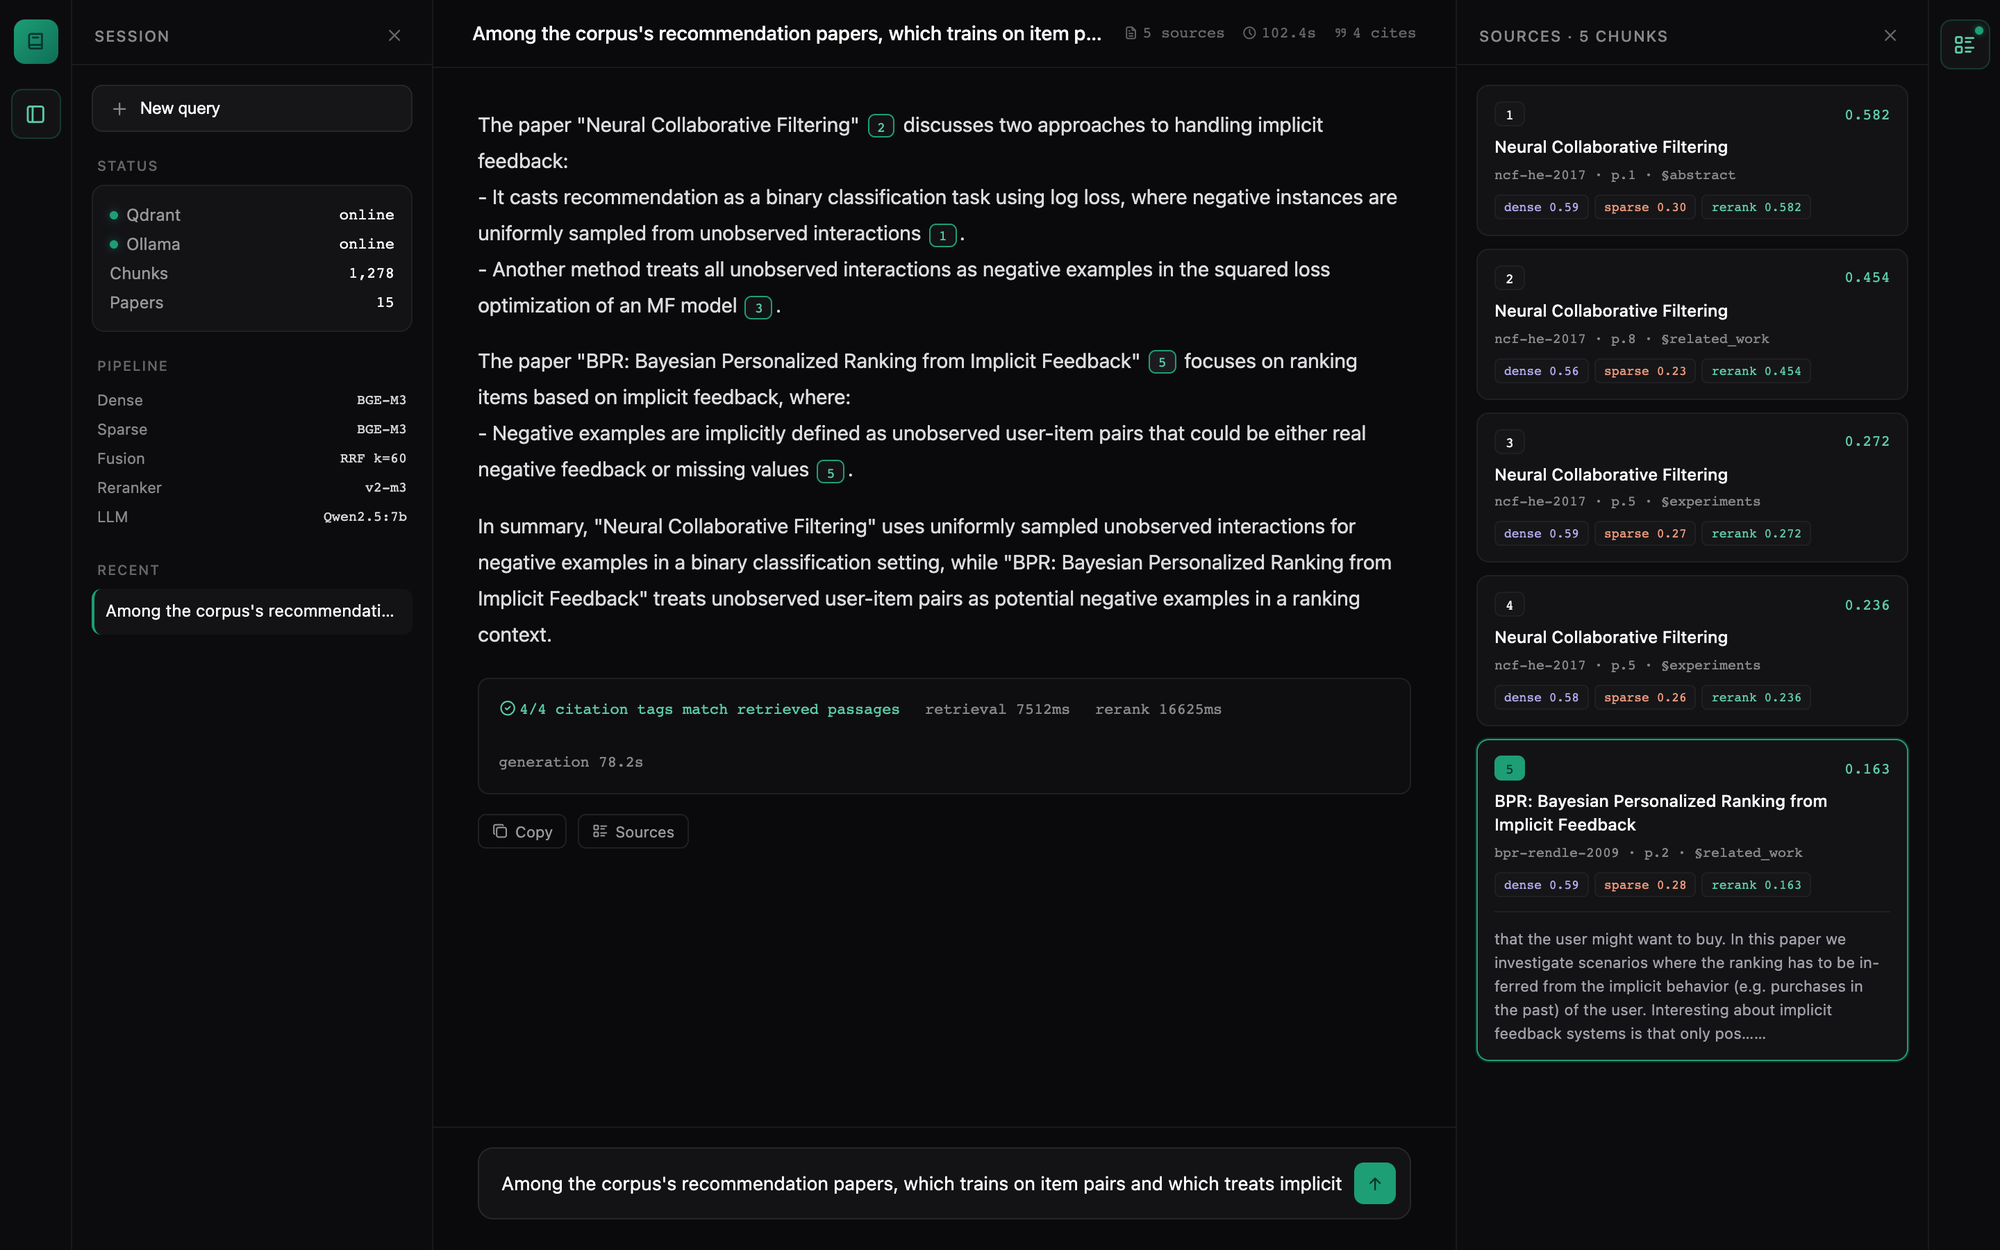
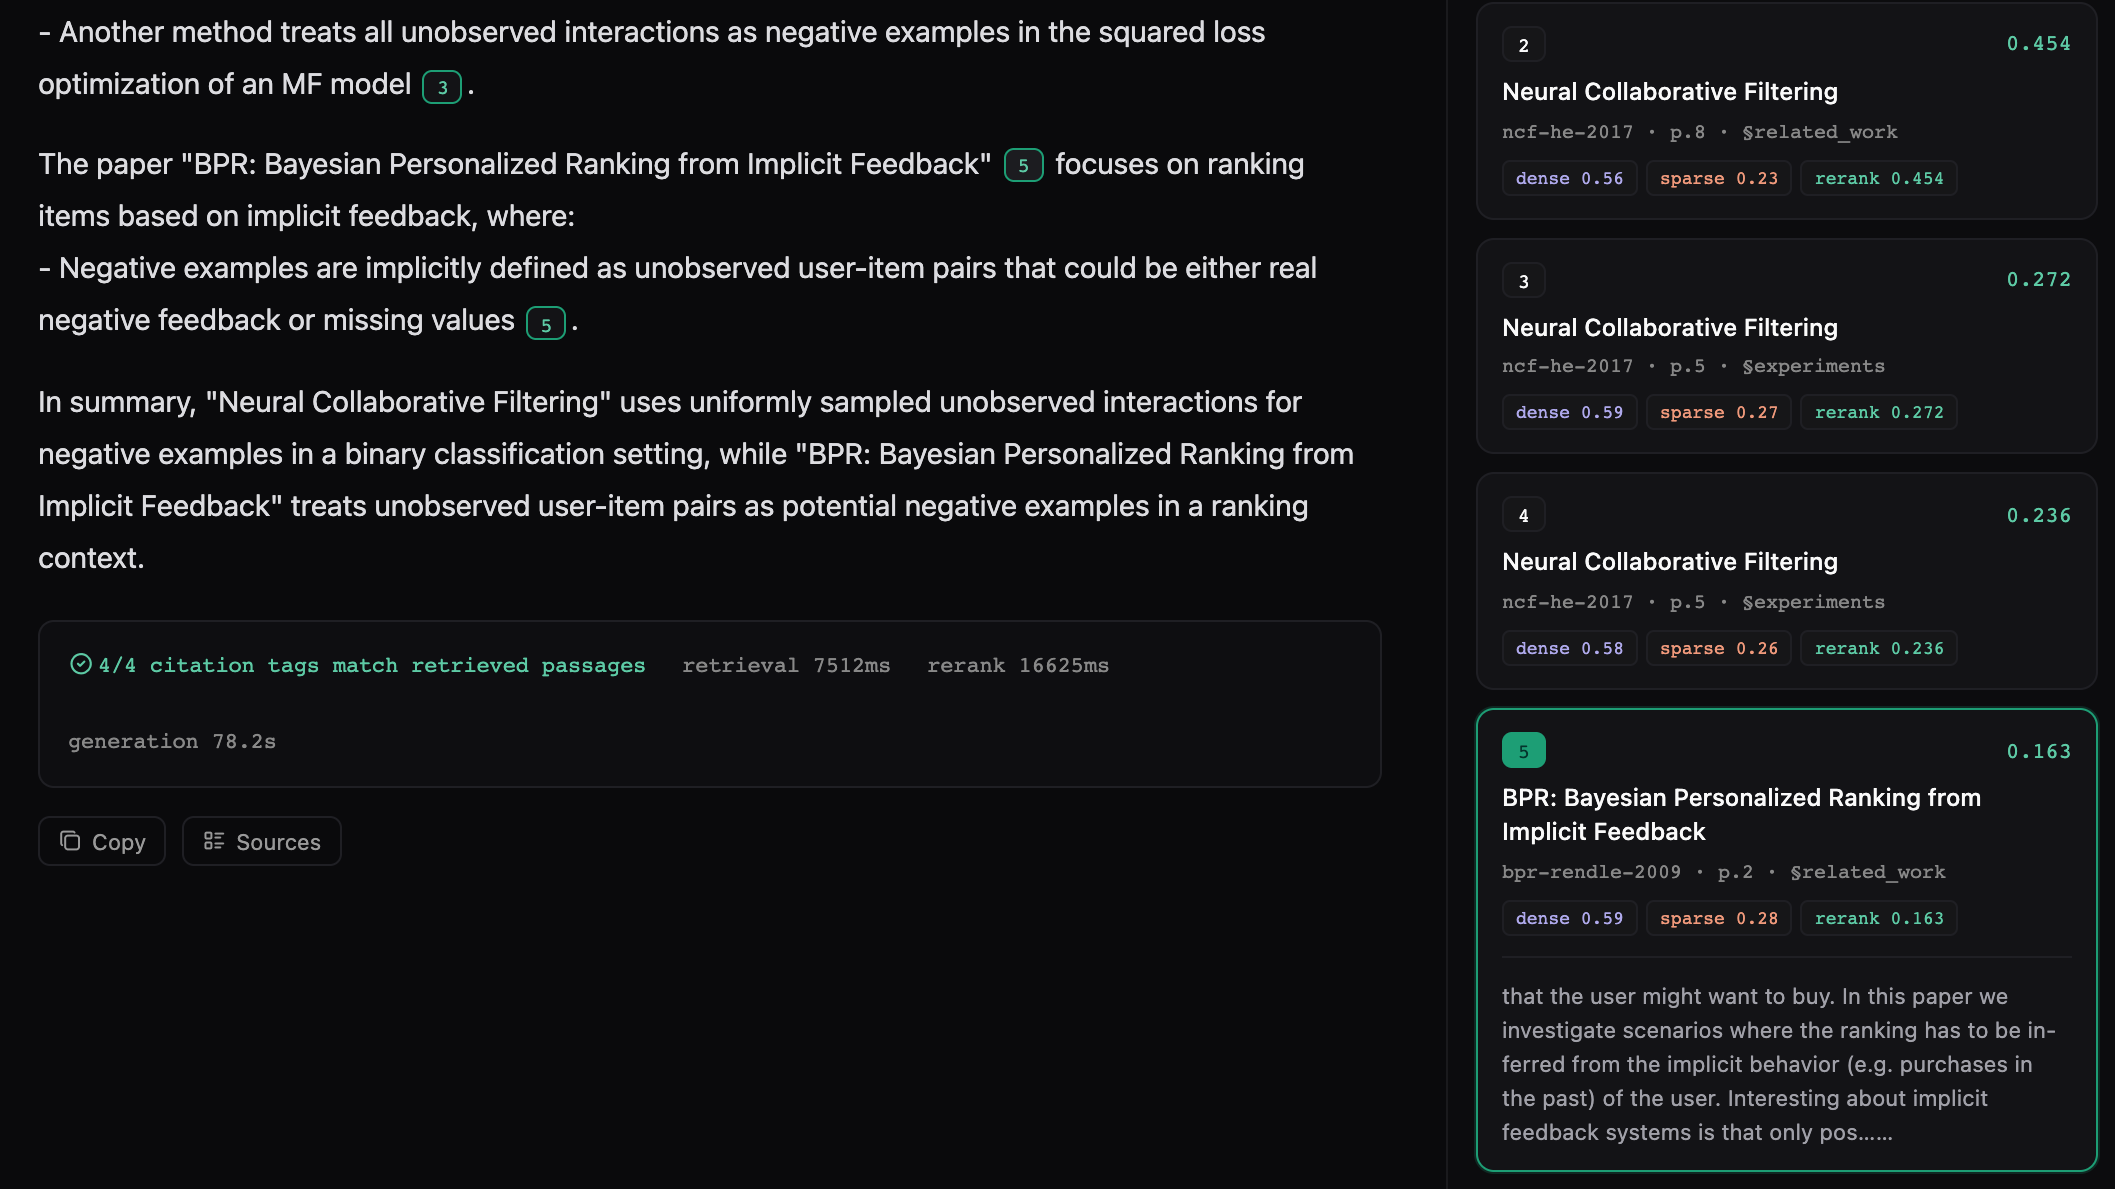
README: compact architecture diagram; crop the citation-pill screenshot
- Add a titles-only pipeline diagram under "How it works" (PDFs → BGE-M3
  → Qdrant; question → hybrid search → reranker → Qwen2.5:7b → citation
  check → released/withheld), with light and dark SVGs selected via
  <picture>. Shown at 506px so titles stay ~12px at a 390px viewport.
- Crop the third demo screenshot from the real frame (no resizing) to the
  BPR pills and the selected source card 5; caption notes it is a crop.

diff --git a/README.md b/README.md
@@ -28,13 +28,18 @@ Captured from the running web UI on the current code and the 1,278-chunk index, 
 
 ![Answer citing two papers, with both papers in the sources panel](docs/images/demo-cross-paper.png)
 
-**Citation pill → source chunk.** The same answer after clicking a BPR pill: the selection moves from card 1 to card 5 (BPR, p.2, §related_work), which shows the chunk text and its dense (0.59), sparse (0.28) and rerank (0.163) scores.
+**Citation pill → source chunk.** A crop of the same answer after clicking a BPR pill (5). Source card 5 (BPR, p.2, §related_work) is now the selected card, showing its chunk text and its dense (0.59), sparse (0.28) and rerank (0.163) scores; in the screenshot above, card 1 was selected.
 
-![Clicking citation pill 5 selects source card 5 with its text and scores](docs/images/demo-citation-source.png)
+![After clicking a BPR citation pill, source card 5 is selected and shows its text and scores](docs/images/demo-citation-source.png)
 
 ---
 
 ## How it works
+
+<picture>
+  <source media="(prefers-color-scheme: dark)" srcset="docs/images/architecture-dark.svg">
+  <img alt="Pipeline: 15 PDFs are chunked and embedded with BGE-M3 into Qdrant (1,278 chunks). A question goes through hybrid dense and sparse search with RRF, cross-encoder reranking to the top 5, and Qwen2.5:7b; the citation check releases the answer or withholds it." src="docs/images/architecture-light.svg" width="506">
+</picture>
 
 1. **Ingestion.** The 15 PDFs are split into section-aware chunks, figure debris is dropped, and BGE-M3 embeds each chunk as a dense and a sparse vector in one pass. Qdrant stores 1,278 chunks, each with paper title, page and section.
 2. **Retrieval.** Dense and sparse search each return 30 candidates. Reciprocal Rank Fusion (k=60) keeps 20, and the bge-reranker-v2-m3 cross-encoder picks the top 5.
